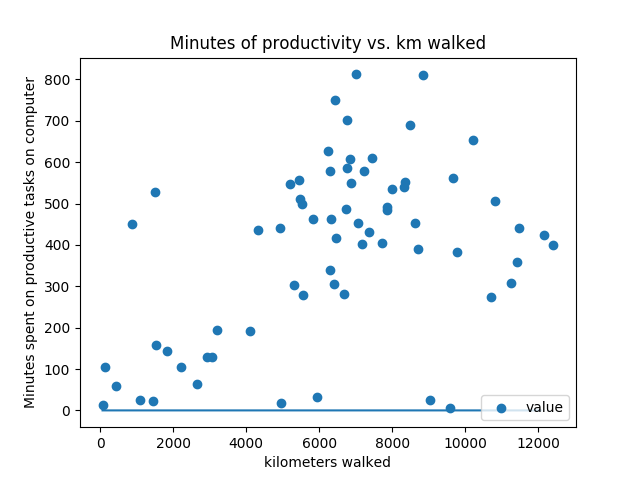
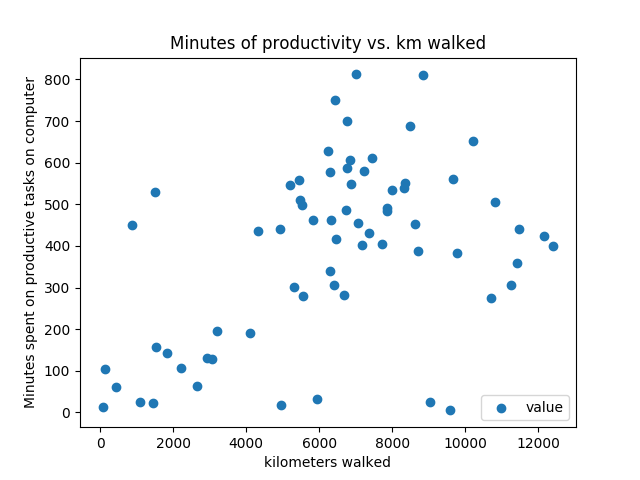
remove normal distirbution

diff --git a/scripts/productivity_min_walk.py b/scripts/productivity_min_walk.py
@@ -34,7 +34,7 @@ plt.scatter(x, y)
 #plt.plot(x, w(x), "b")
 
 # Plot the normal distribution
-plt.plot(x_axis, norm.pdf([x_axis,mu,sigma], scale=s))
+# plt.plot(x_axis, norm.pdf([x_axis,mu,sigma], scale=s))
 
 # Add a legend, save, and close
 handles, labels = plt.gca().get_legend_handles_labels()
@@ -59,8 +59,8 @@ for index, value in enumerate(x):
         plt.scatter(value, y.iloc[index], c="b", label="Anxiety not tagged")
 
 # Plot the normal distribution
-#plt.plot(x, w(x), "b")
-plt.plot(x_axis, norm.pdf([x_axis,mu,sigma], scale=s))
+# plt.plot(x, w(x), "b")
+# plt.plot(x_axis, norm.pdf([x_axis,mu,sigma], scale=s))
 
 # Add a legend, save, and close
 handles, labels = plt.gca().get_legend_handles_labels()
